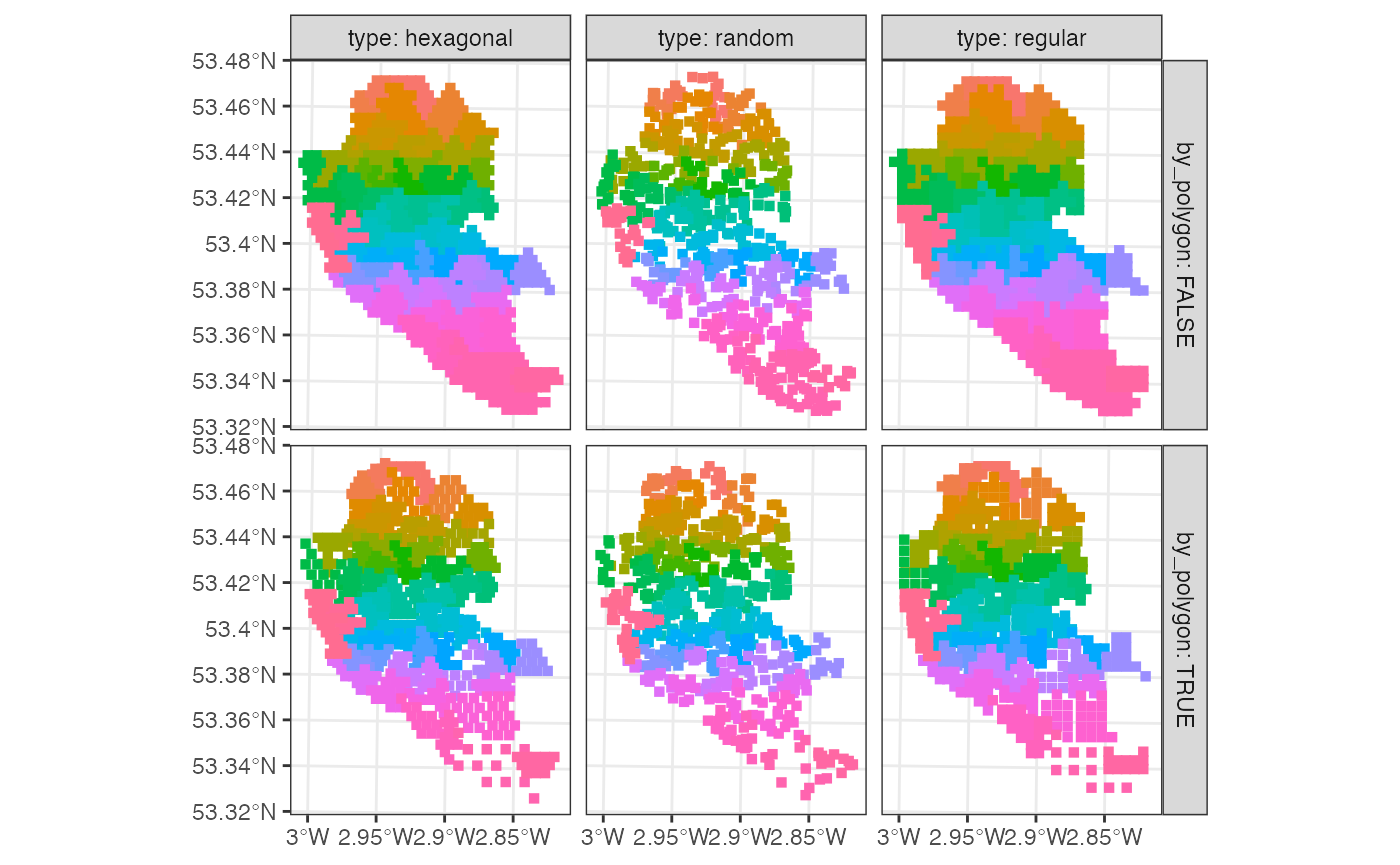
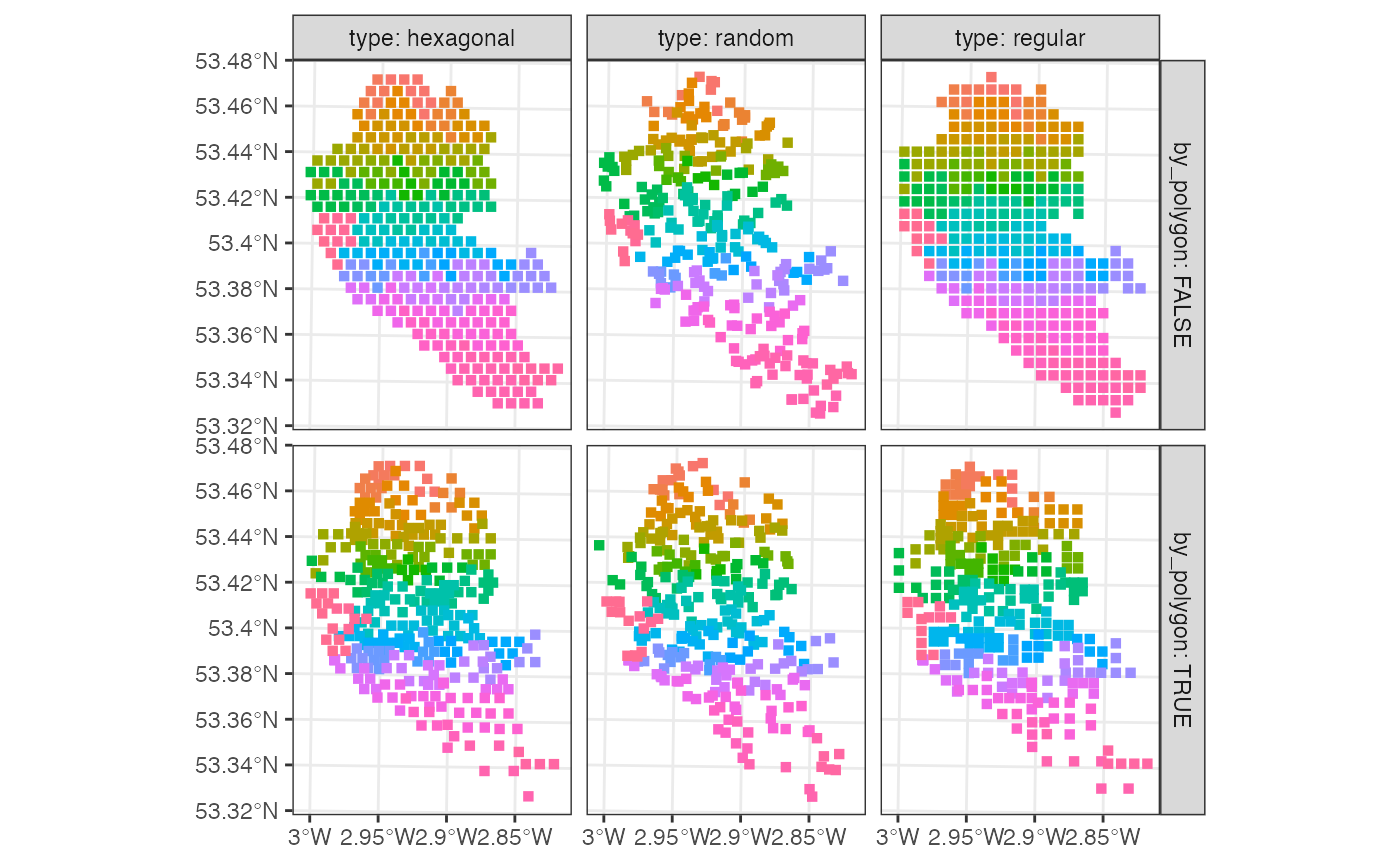
Built site for spmismo: 0.0.0.9000@3c85f8a

diff --git a/articles/sf_to_spm.html b/articles/sf_to_spm.html
@@ -130,13 +130,9 @@
     <span class="fu"><a href="https://ggplot2.tidyverse.org/reference/guides.html">guides</a></span><span class="op">(</span>color <span class="op">=</span> <span class="cn">FALSE</span><span class="op">)</span> <span class="op">+</span>
     <span class="fu"><a href="https://ggplot2.tidyverse.org/reference/ggtheme.html">theme_minimal</a></span><span class="op">(</span><span class="op">)</span></code></pre></div>
 <p><img src="sf_to_spm_files/figure-html/sf-to-spm1-1.png" width="700"></p>
-<p>Next, we illustrate how do different values of <code>type</code> and <code>by_polygon</code> affect the final result of the <code>sf_to_spm</code> call. In all examples we are going to use a grid of 732 points (multiple of the number of polygons observed). The “sparsity” of the points forming the grid helps to see the differences caused by the different inputs for the function. The panel below displays every possible combination of the parameters <code>type</code> and <code>by_polygon</code>. Although there is no “right” choice for these parameters, we advise using <code>type</code> as <code>"regular"</code> or <code>"hexagonal"</code> with by <code>by_polygon = FALSE</code>. Also, it is import to make sure that, after generating the grid, your grid is in a finer resolution than your smallest polygon, that is, to make sure that there exists no points lying in more than one polygon.</p>
-<pre><code>#&gt;           used (Mb) gc trigger  (Mb) limit (Mb) max used  (Mb)
-#&gt; Ncells  985335 52.7    1996871 106.7         NA  1996871 106.7
-#&gt; Vcells 1970829 15.1    8388608  64.0      16384  5803189  44.3</code></pre>
-<p><img src="sf_to_spm_files/figure-html/sf-to-spm2-1.png" width="700"></p>
+<p>Next, we illustrate how do different values of <code>type</code> and <code>by_polygon</code> affect the final result of the <code>sf_to_spm</code> call. In all examples we are going to use a grid of 305 points (multiple of the number of polygons observed). The “sparsity” of the points forming the grid helps to see the differences caused by the different inputs for the function. The panel below displays every possible combination of the parameters <code>type</code> and <code>by_polygon</code>. Although there is no “right” choice for these parameters, we advise using <code>type</code> as <code>"regular"</code> or <code>"hexagonal"</code> with by <code>by_polygon = FALSE</code>. Also, it is import to make sure that, after generating the grid, your grid is in a finer resolution than your smallest polygon, that is, to make sure that there exists no points lying in more than one polygon. <img src="sf_to_spm_files/figure-html/sf-to-spm2-1.png" width="700"></p>
 <p>Lastly, we show two additional examples of usage of the <code>sf_to_spm</code> function. The first one, using the IMD data at the LSOA level, we show how to proceed when analysing more than one random variable. In the code chunk below, we load the data and convert it to an <code>spmismo</code> compatible object using a regular grid of 1500 points. We also inform the software that we are interested in analyzing two variables within this dataset, the variables <code>"imdscore"</code> and <code>"male"</code>, respectively<a href="#fn5" class="footnote-ref" id="fnref5"><sup>5</sup></a>.</p>
-<div class="sourceCode" id="cb5"><pre class="downlit sourceCode r">
+<div class="sourceCode" id="cb4"><pre class="downlit sourceCode r">
 <code class="sourceCode R"><span class="fu"><a href="https://rdrr.io/r/utils/data.html">data</a></span><span class="op">(</span><span class="va">liv_lsoa</span><span class="op">)</span>
 
 <span class="va">msoa_spm</span> <span class="op">&lt;-</span>
@@ -145,7 +141,7 @@
               poly_ids <span class="op">=</span> <span class="st">"lsoa11cd"</span>,
               var_ids <span class="op">=</span> <span class="fu"><a href="https://rdrr.io/r/base/c.html">c</a></span><span class="op">(</span><span class="st">"imdscore"</span>, <span class="st">"male"</span><span class="op">)</span><span class="op">)</span></code></pre></div>
 <p>Finally, to code chunk below displays the situation on which we input two <code>sf</code> objects, representing two partitions of the same space, to the <code>sf_to_spm</code> function. There are some key changes in here, parameters that were scalars before, now turn into vectors or lists. For instance, <code>n_pts</code> now is a list such that its first position is about the <code>sf_obj1</code> and its second position stores information about the grid of points to be generated for <code>sf_obj2</code>. Yes, we can generate two different grids in here. This is useful especially when the two datasets analysed are in very different scales, allowing us to use a more sparse grid for the dataset with “smaller” resolution. This brings computational improvements because we end up dealing with covariance matrices of lower dimensions. Please, refer to the documentation of the function for further details.</p>
-<div class="sourceCode" id="cb6"><pre class="downlit sourceCode r">
+<div class="sourceCode" id="cb5"><pre class="downlit sourceCode r">
 <code class="sourceCode R"><span class="va">mult_spm</span> <span class="op">&lt;-</span>
     <span class="fu"><a href="../reference/sf_to_spm.html">sf_to_spm</a></span><span class="op">(</span>sf_obj1 <span class="op">=</span> <span class="va">liv_msoa</span>, sf_obj2 <span class="op">=</span> <span class="va">liv_lsoa</span>,
               n_pts <span class="op">=</span> <span class="fu"><a href="https://rdrr.io/r/base/list.html">list</a></span><span class="op">(</span><span class="fl">750</span>, <span class="fl">1500</span><span class="op">)</span>,

diff --git a/articles/sp-cov-functions.html b/articles/sp-cov-functions.html
@@ -92,13 +92,59 @@
 
     
     
-<div class="sourceCode" id="cb1"><pre class="downlit sourceCode r">
-<code class="sourceCode R"><span class="kw"><a href="https://rdrr.io/r/base/library.html">library</a></span><span class="op">(</span><span class="va"><a href="https://lcgodoy.me/spmismo">spmismo</a></span><span class="op">)</span></code></pre></div>
+<!-- To exemplify the covariance functions, we are going to use the data from -->
+<!-- @johnson2020dealing again^[for more details about the data, take a look at the -->
+<!-- vignette -->
+<!-- [sf-to-spm](https://lcgodoy.me/spmismo/articles/sf_to_spm.html)]. First, in the -->
+<!-- code cunk below, we load the data and convert it to a `spmismo` compatible -->
+<!-- class. Since this is a toy example, we are going to generate a 500 points grid -->
+<!-- for the data. -->
+<p>in this short vignette, we illustrate the family of spatial covariance functions implemented in this package. Note that, all of them are based on the assumptions of stationarity and isotropy of the underlying Gaussian Random Field (GRF). Also, the implementations (and definitions) are based on the families of spatial <em>correlation</em> functions presented in <span class="citation">Diggle and Ribeiro (2007)</span>. The implemtations make use of the <code>RcppArmadillo</code> <span class="citation">(Eddelbuettel and Sanderson 2014)</span> package and the STL library algorithms (C++ 11)<a href="#fn1" class="footnote-ref" id="fnref1"><sup>1</sup></a>.</p>
+<p>The first spatial covariance family implemented is the so-called Mat'ern Covariance function, it is of form <span class="math display">\[
+C(h; \sigma^2, \phi, \kappa) = \sigma^2 frac{(h / \phi)^{\kappa} K_{\kappa}( h / \phi )}
+{ 2^{\kappa - 1} \Gamma(\kappa) },
+\]</span> where <span class="math inline">\(h\)</span> is the distance between two points, <span class="math inline">\(\sigma^2\)</span> is analogous to a variance parameter, <span class="math inline">\(\phi\)</span> is the scale parameter that controls the rech of the spatial dependence, and <span class="math inline">\(\kappa\)</span> is a shape parameter that controls the differentiability of the process. The function <span class="math inline">\(K_{\kappa}(\cdot)\)</span> is the <span class="math inline">\(\kappa\)</span>-order Modified Bessel function of Second-Kind There are special cases of the Mat'er family implemented on the package, when setting <span class="math inline">\(\kappa\)</span> to <span class="math inline">\(1/2\)</span>, <span class="math inline">\(3/2\)</span>, <span class="math inline">\(5/2\)</span>, or <span class="math inline">\(\infty\)</span> the expression simplifies. The first and the last cases yields to the Exponential and Gaussian family, respectively.</p>
+<p>The second spatial covariance family implemented is the Powered Exponential Covariance function, it is defined as <span class="math display">\[
+C(h; \sigma^2, \phi, \kappa) = \sigma^2 \exp \{ - (h / \phi)^{\kappa} \},
+\]</span> where <span class="math inline">\(h\)</span> is the distance between two points, <span class="math inline">\(\sigma^2\)</span> is analogous to a variance parameter, <span class="math inline">\(\phi\)</span> is the scale parameter that controls the rech of the spatial dependence, and <span class="math inline">\(\kappa\)</span> is a shape parameter that controls the differentiability of the process.</p>
+<p>The penultimate option is the Gaussian family of covariance functions, they are defined as <span class="math display">\[
+C(h; \sigma^2, \phi) = \sigma^2 \exp \left\{ - \frac{h ^ 2}{2 \phi ^ 2} \right\},
+\]</span> the parameters are analogous to those defined by the previous two families. Note that, this family has one less parameter as the previously defined ones.</p>
+<p>Lastly, we have implemented the Spherical family of covariance functions, defined as <span class="math display">\[
+C(h; \sigma^2, \phi) = 
+\sigma^2 
+\begin{cases}
+1 - \frac{3}{2} (h / \phi) + \frac{1}{2} (h / \phi) ^ 3 &amp; , \,
+0 \geq h \geq \phi \\
+0 &amp; , \, h &gt; \phi,
+\end{cases}
+\]</span> where, again, <span class="math inline">\(\sigma^2\)</span> is a variance parameter, while $&gt; 0 $ is a parameter with the same magnitude as the distances on which the function is being evaluated at.</p>
+<p>All this functions will be useful in the upcoming vignette.</p>
+<div id="reference" class="section level1 unnumbered">
+<h1 class="hasAnchor">
+<a href="#reference" class="anchor"></a>Reference</h1>
+<div id="refs" class="references">
+<div id="ref-diggle2007model">
+<p>Diggle, PJ, and Paulo Justiniano Ribeiro. 2007. “Model-Based Geostatistics (Springer Series in Statistics).” In, 51–56. Springer.</p>
+</div>
+<div id="ref-eddelbuettel2014rcpparmadillo">
+<p>Eddelbuettel, Dirk, and Conrad Sanderson. 2014. “RcppArmadillo: Accelerating R with High-Performance C++ Linear Algebra.” <em>Computational Statistics &amp; Data Analysis</em> 71: 1054–63.</p>
+</div>
+</div>
+</div>
+<div class="footnotes">
+<hr>
+<ol>
+<li id="fn1"><p>during my experiences, the implementation using the sequencial algorithms of the STL library was more effitient than using the <code>RcppParallel</code> package<a href="#fnref1" class="footnote-back">↩</a></p></li>
+</ol>
+</div>
   </div>
 
   <div class="col-md-3 hidden-xs hidden-sm" id="pkgdown-sidebar">
 
-      </div>
+        <nav id="toc" data-toggle="toc"><h2 data-toc-skip>Contents</h2>
+    </nav>
+</div>
 
 </div>
 
